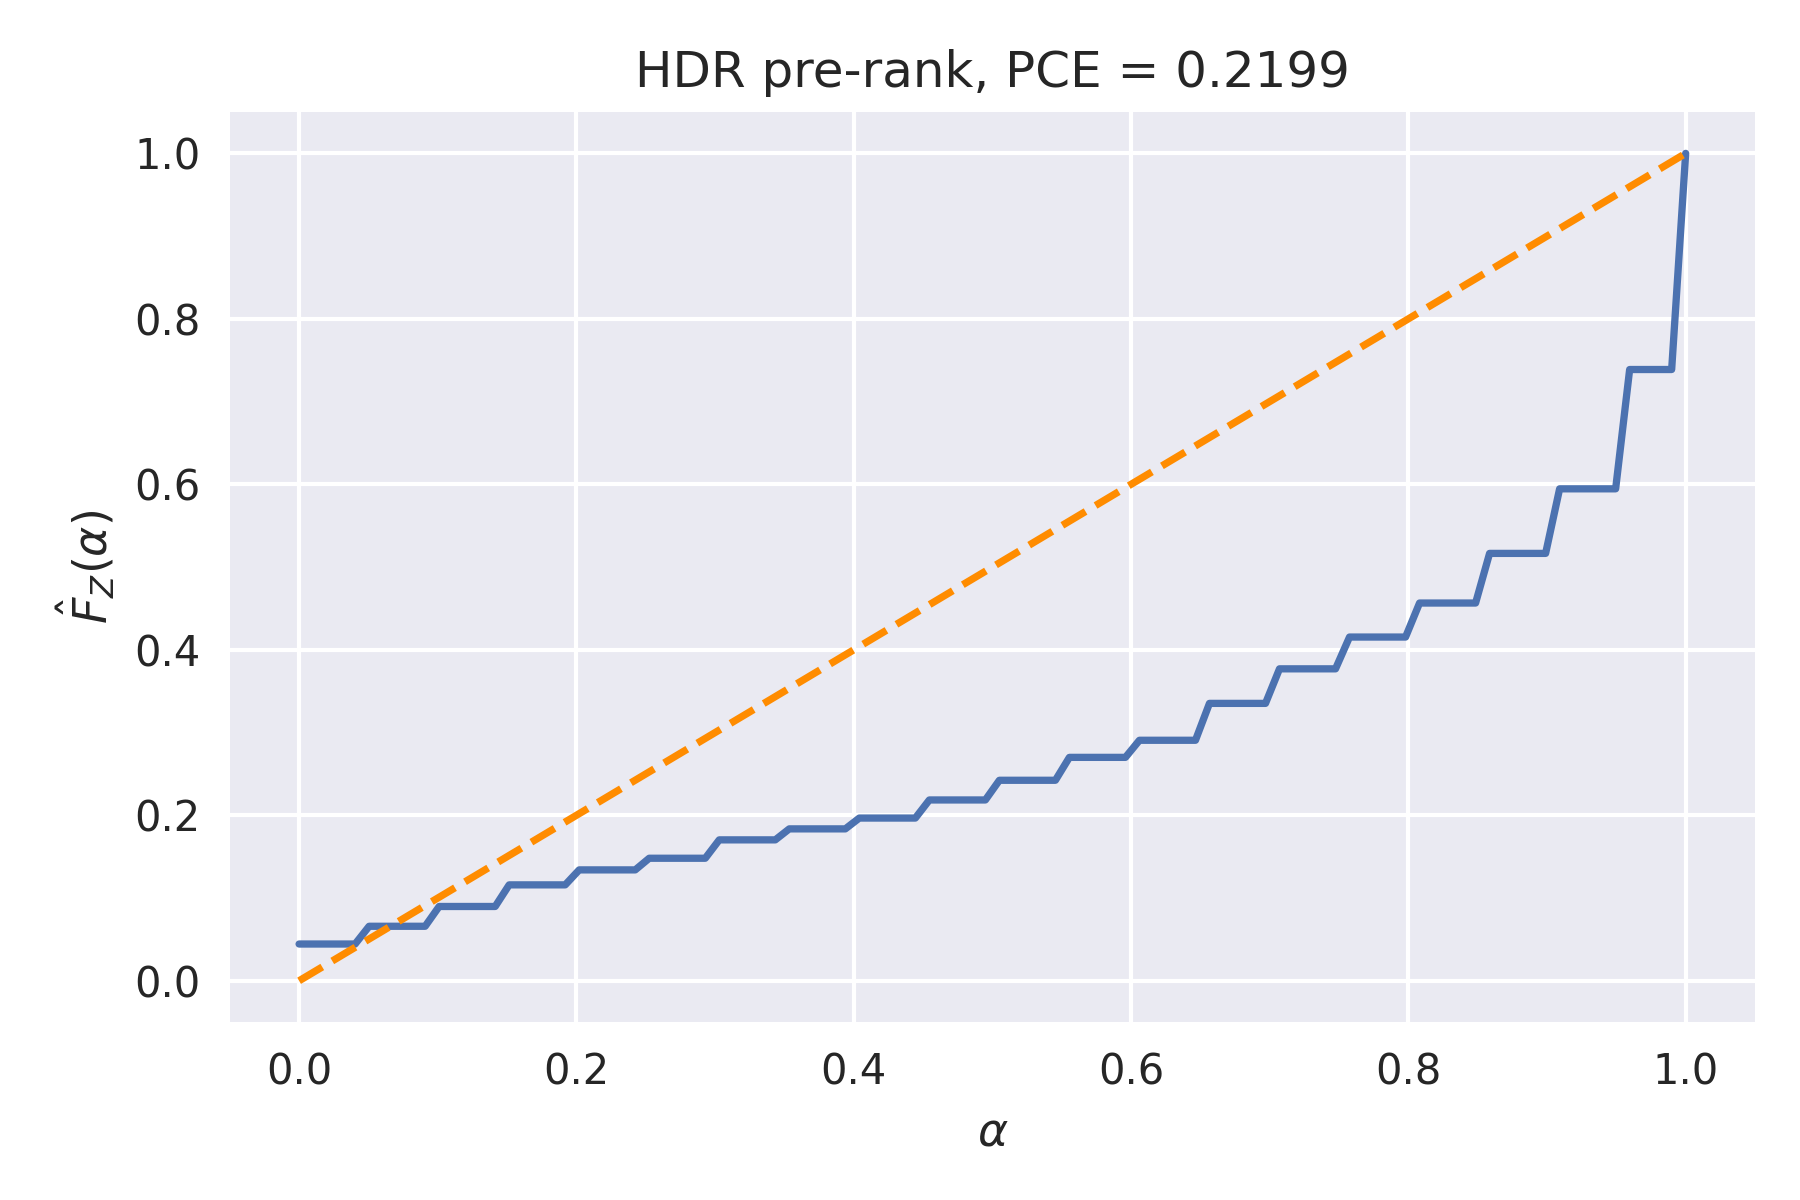
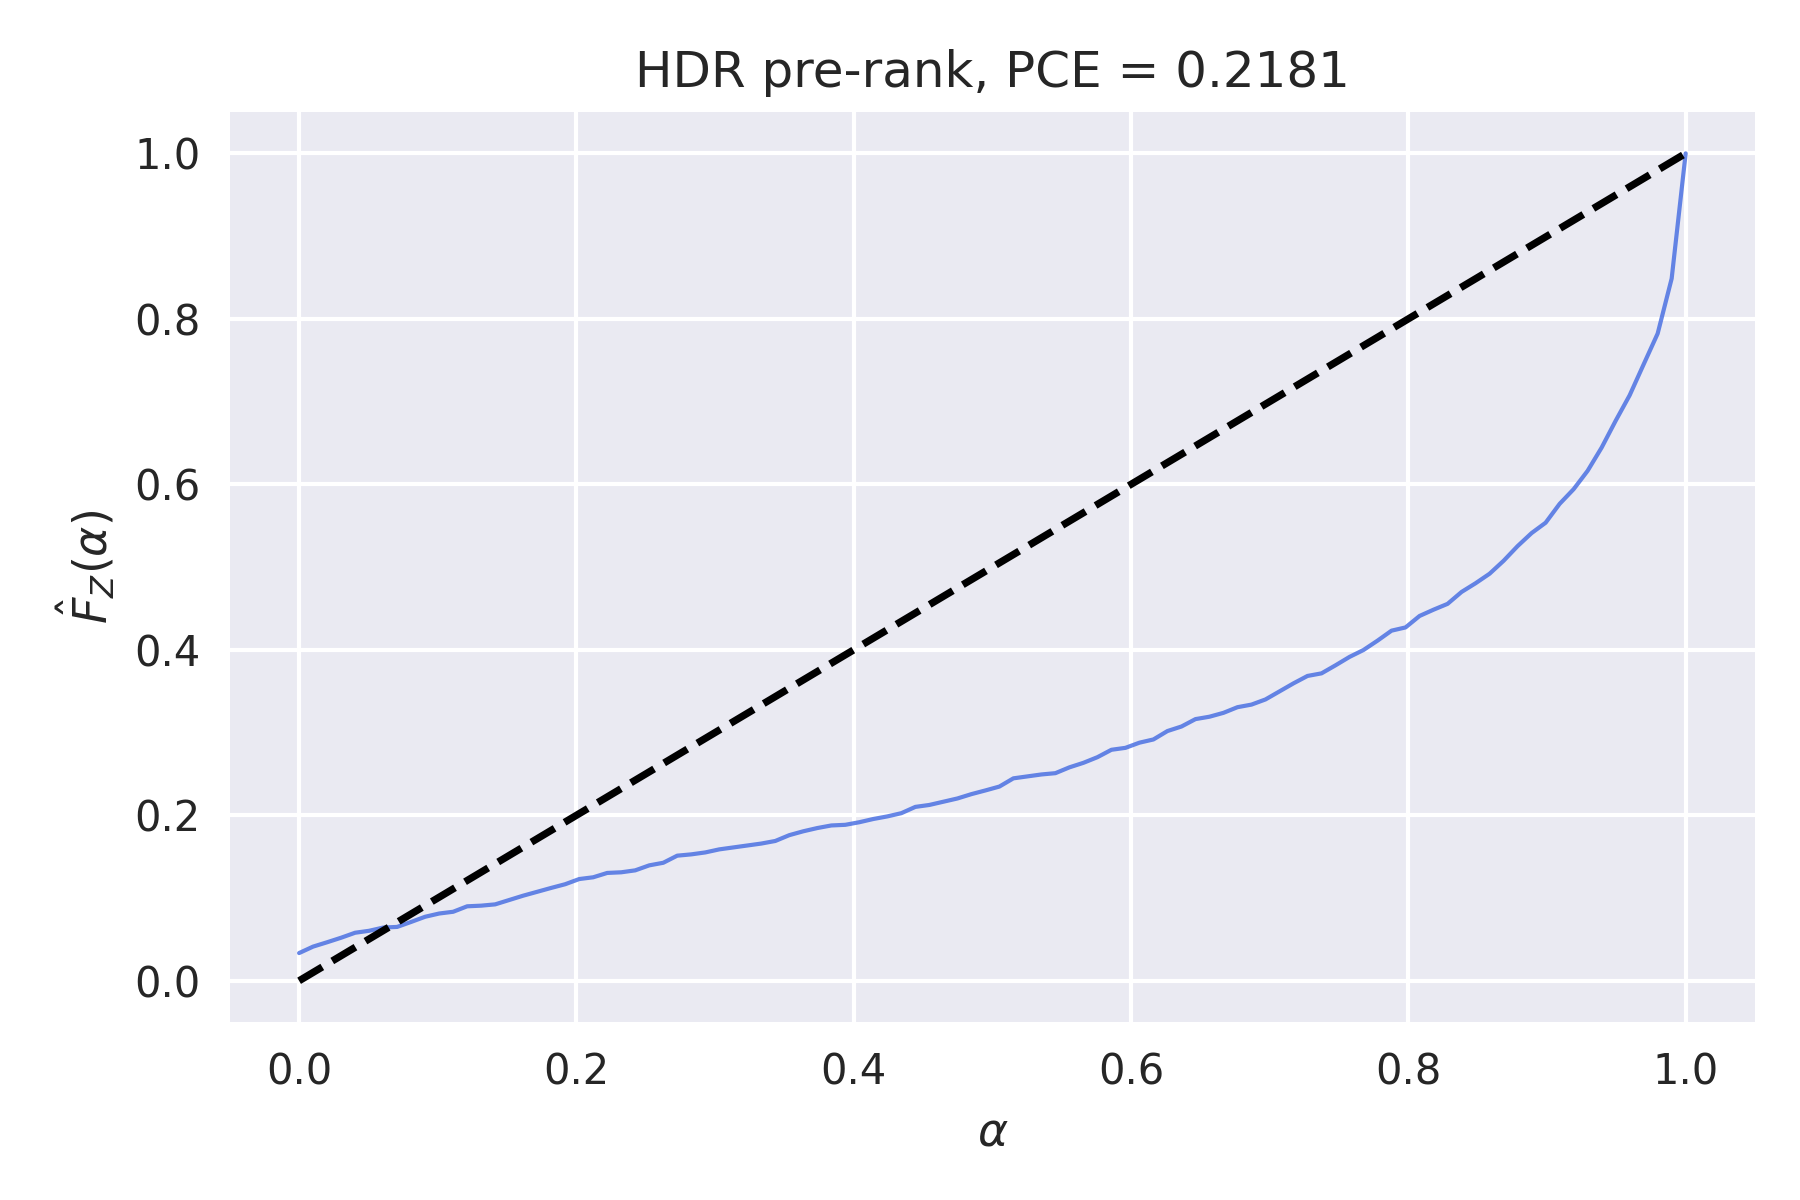
reliability plots

diff --git a/Multicalibration/Projected_PIT_calibration/moc/metrics/distribution_metrics.py b/Multicalibration/Projected_PIT_calibration/moc/metrics/distribution_metrics.py
@@ -75,7 +75,7 @@ def calculate_PIT(dist, y, n_samples, setup, prerank):
         print("samples.shape")
         print(samples.shape)
     else: 
-        samples = dist.sample((n_samples,)).permute(1, 0, 2) #256,100,4
+        samples = dist.sample((n_samples,)).permute(1, 0, 2) #256,20,4
     pits = []
     explained_var = np.ones(dim) * (1/dim)
     if prerank in ['mean', 'variance', 'dependency']:
@@ -140,35 +140,39 @@ def pce(dist, y, n_samples = 1000, mode = 'all', prerank = 'pca', setup = 'real'
     alphas = torch.linspace(0, 1, 100, device=y.device)
     pit_values, _ = calculate_PIT(dist, y, n_samples = n_samples, setup = setup, prerank = prerank) #shape (4,256,1) or (1, 256,1)
     dim = pit_values.shape[0]
-    pces = []
+    pces, cdfs = [], []
     for d in range(dim):
         pits = pit_values[d].view(-1)  # shape: (256,)
         pits_sorted = pits.sort()[0]
         cdf_estimates = torch.searchsorted(pits_sorted, alphas, side='right') / pits_sorted.numel()
         pce = torch.mean(torch.abs(cdf_estimates - alphas))
         pces.append(pce)
-    pces = torch.stack(pces)
-    explained_var = torch.from_numpy(_).to(pces.device)  # shape: (4,)
-    if mode == 'average':
-        if prerank == 'pca':
-            return (pces * explained_var).sum()
-        return pces.mean()
-    elif mode == 'all':
-        return pces #it returns a list with 4 values, pce corresponding to each PCA
-
-def reliability_plots(dist, y, n_samples = 1000, mode = 'all', prerank = 'pca', setup = 'real'):
-    alphas = torch.linspace(0, 1, 100, device=y.device)
-    pit_values, _ = calculate_PIT(dist, y, n_samples = n_samples, setup = setup, prerank = prerank) #shape (4,256,1) or (1, 256,1)
-    dim = pit_values.shape[0]
-    cdfs = []
-    for d in range(dim):
-        pits = pit_values[d].view(-1)  # shape: (256,)
-        pits_sorted = pits.sort()[0]
-        cdf_estimates = torch.searchsorted(pits_sorted, alphas, side='right') / pits_sorted.numel()
         cdfs.append(cdf_estimates)
+    pces = torch.stack(pces)
     cdfs = torch.stack(cdfs)
-    explained_var = torch.from_numpy(_).to(cdfs.device).unsqueeze(-1)  # shape: (4,)
-    if prerank =='pca':
-        return (cdfs * explained_var).sum(dim=0)
-    return cdfs.mean(dim=0)
+    # explained_var = torch.from_numpy(_).to(cdfs.device)  # shape: (4,)
+    explained_var = _
+    return pces, cdfs, explained_var
+    # if mode == 'average':
+    #     if prerank == 'pca':
+    #         return (pces * explained_var).sum()
+    #     return pces.mean()
+    # elif mode == 'all':
+    #     return pces #it returns a list with 4 values, pce corresponding to each PCA
+
+# def reliability_plots(dist, y, n_samples = 1000, mode = 'all', prerank = 'pca', setup = 'real'):
+#     alphas = torch.linspace(0, 1, 100, device=y.device)
+#     pit_values, _ = calculate_PIT(dist, y, n_samples = n_samples, setup = setup, prerank = prerank) #shape (4,256,1) or (1, 256,1)
+#     dim = pit_values.shape[0]
+#     cdfs = []
+#     for d in range(dim):
+#         pits = pit_values[d].view(-1)  # shape: (256,)
+#         pits_sorted = pits.sort()[0]
+#         cdf_estimates = torch.searchsorted(pits_sorted, alphas, side='right') / pits_sorted.numel()
+#         cdfs.append(cdf_estimates)
+#     cdfs = torch.stack(cdfs)
+#     explained_var = torch.from_numpy(_).to(cdfs.device).unsqueeze(-1)  # shape: (4,)
+#     if prerank =='pca':
+#         return (cdfs * explained_var).sum(dim=0)
+#     return cdfs.mean(dim=0)
 
